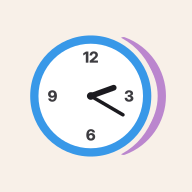
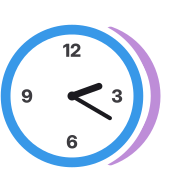
PWA アイコンから余計な背景を削除
前コミットで足した beige (#f8f0e8) の背景と maskable purpose が
Android で「外枠つきショートカット」っぽい見た目になる原因だった。
icon.svg (LP 由来・透明背景) から直接 PNG を再生成し、manifest からも
maskable を外して icon.svg そのままの二重円デザインが出るようにした。

- icon-192.png / icon-512.png を icon.svg から再生成 (透明背景)
- manifest.ja.webmanifest と vite.config.ts から maskable エントリ削除
- scripts/icon-pwa.svg を削除 (beige bg 前提だったため不要)

Changed region(s): [[0.0, 0.125, 0.875, 0.875], [0.25, 0.4688, 0.3125, 0.5312]]

diff --git a/vite.config.ts b/vite.config.ts
@@ -37,7 +37,6 @@ export default defineConfig({
         icons: [
           { src: "/icon-192.png", sizes: "192x192", type: "image/png" },
           { src: "/icon-512.png", sizes: "512x512", type: "image/png" },
-          { src: "/icon-512.png", sizes: "512x512", type: "image/png", purpose: "maskable" },
         ],
       },
     }),
